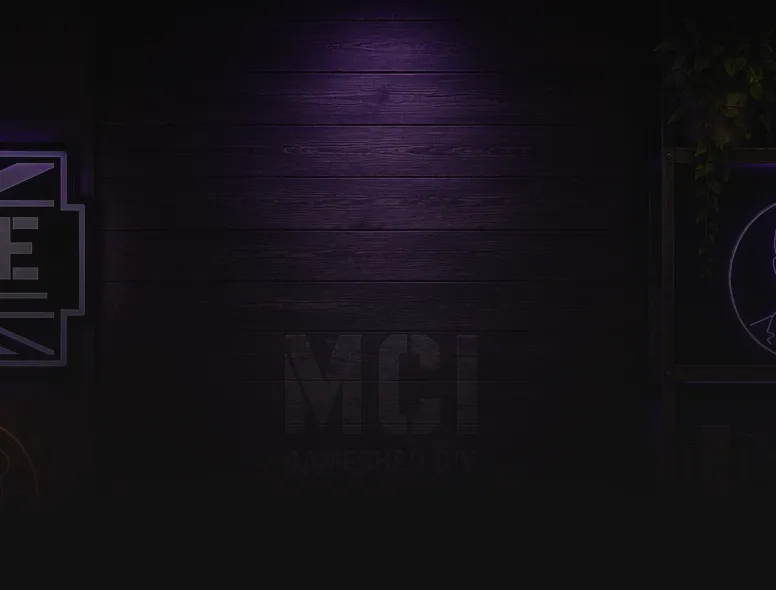
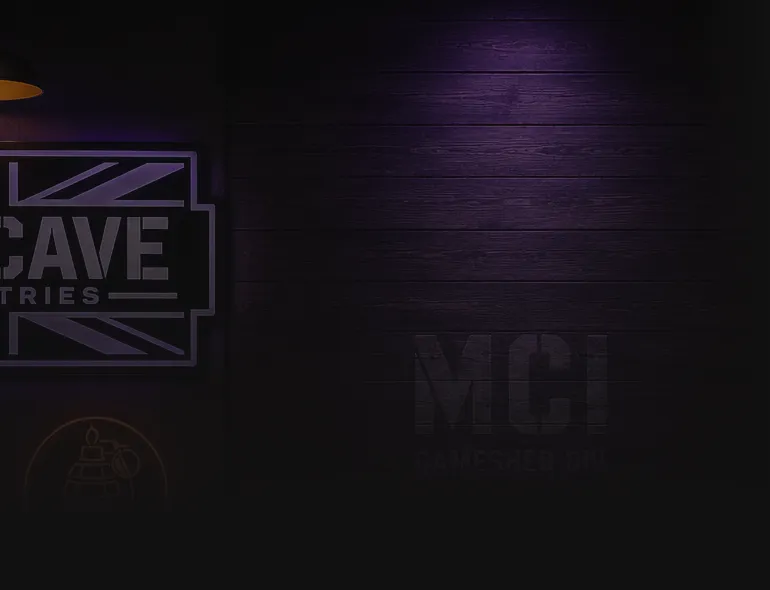
Crop Alfred out of the header artwork
Claude-Session: https://claude.ai/code/session_01MEVizWb6cj9LGzgpsVQwzq

diff --git a/index.html b/index.html
@@ -32,12 +32,12 @@
 *{box-sizing:border-box}
 body{
   margin:0;background-color:var(--board);color:var(--steel);font:400 1rem/1.55 var(--body);
-  --art:url("assets/shed-wall.webp");--art-w:max(100%,1180px);
+  --art:url("assets/shed-wall.webp");--art-w:max(100%,1020px);
   background-image:
     var(--art),
     radial-gradient(circle at center,var(--hole) 0 3px,transparent 3.5px);
   background-size:var(--art-w) auto,28px 28px;
-  background-position:top center,14px 14px;
+  background-position:top left,14px 14px;
   background-repeat:no-repeat,repeat;
   padding-inline:clamp(16px,4vw,48px);padding-block:clamp(24px,5vw,56px);
 }
